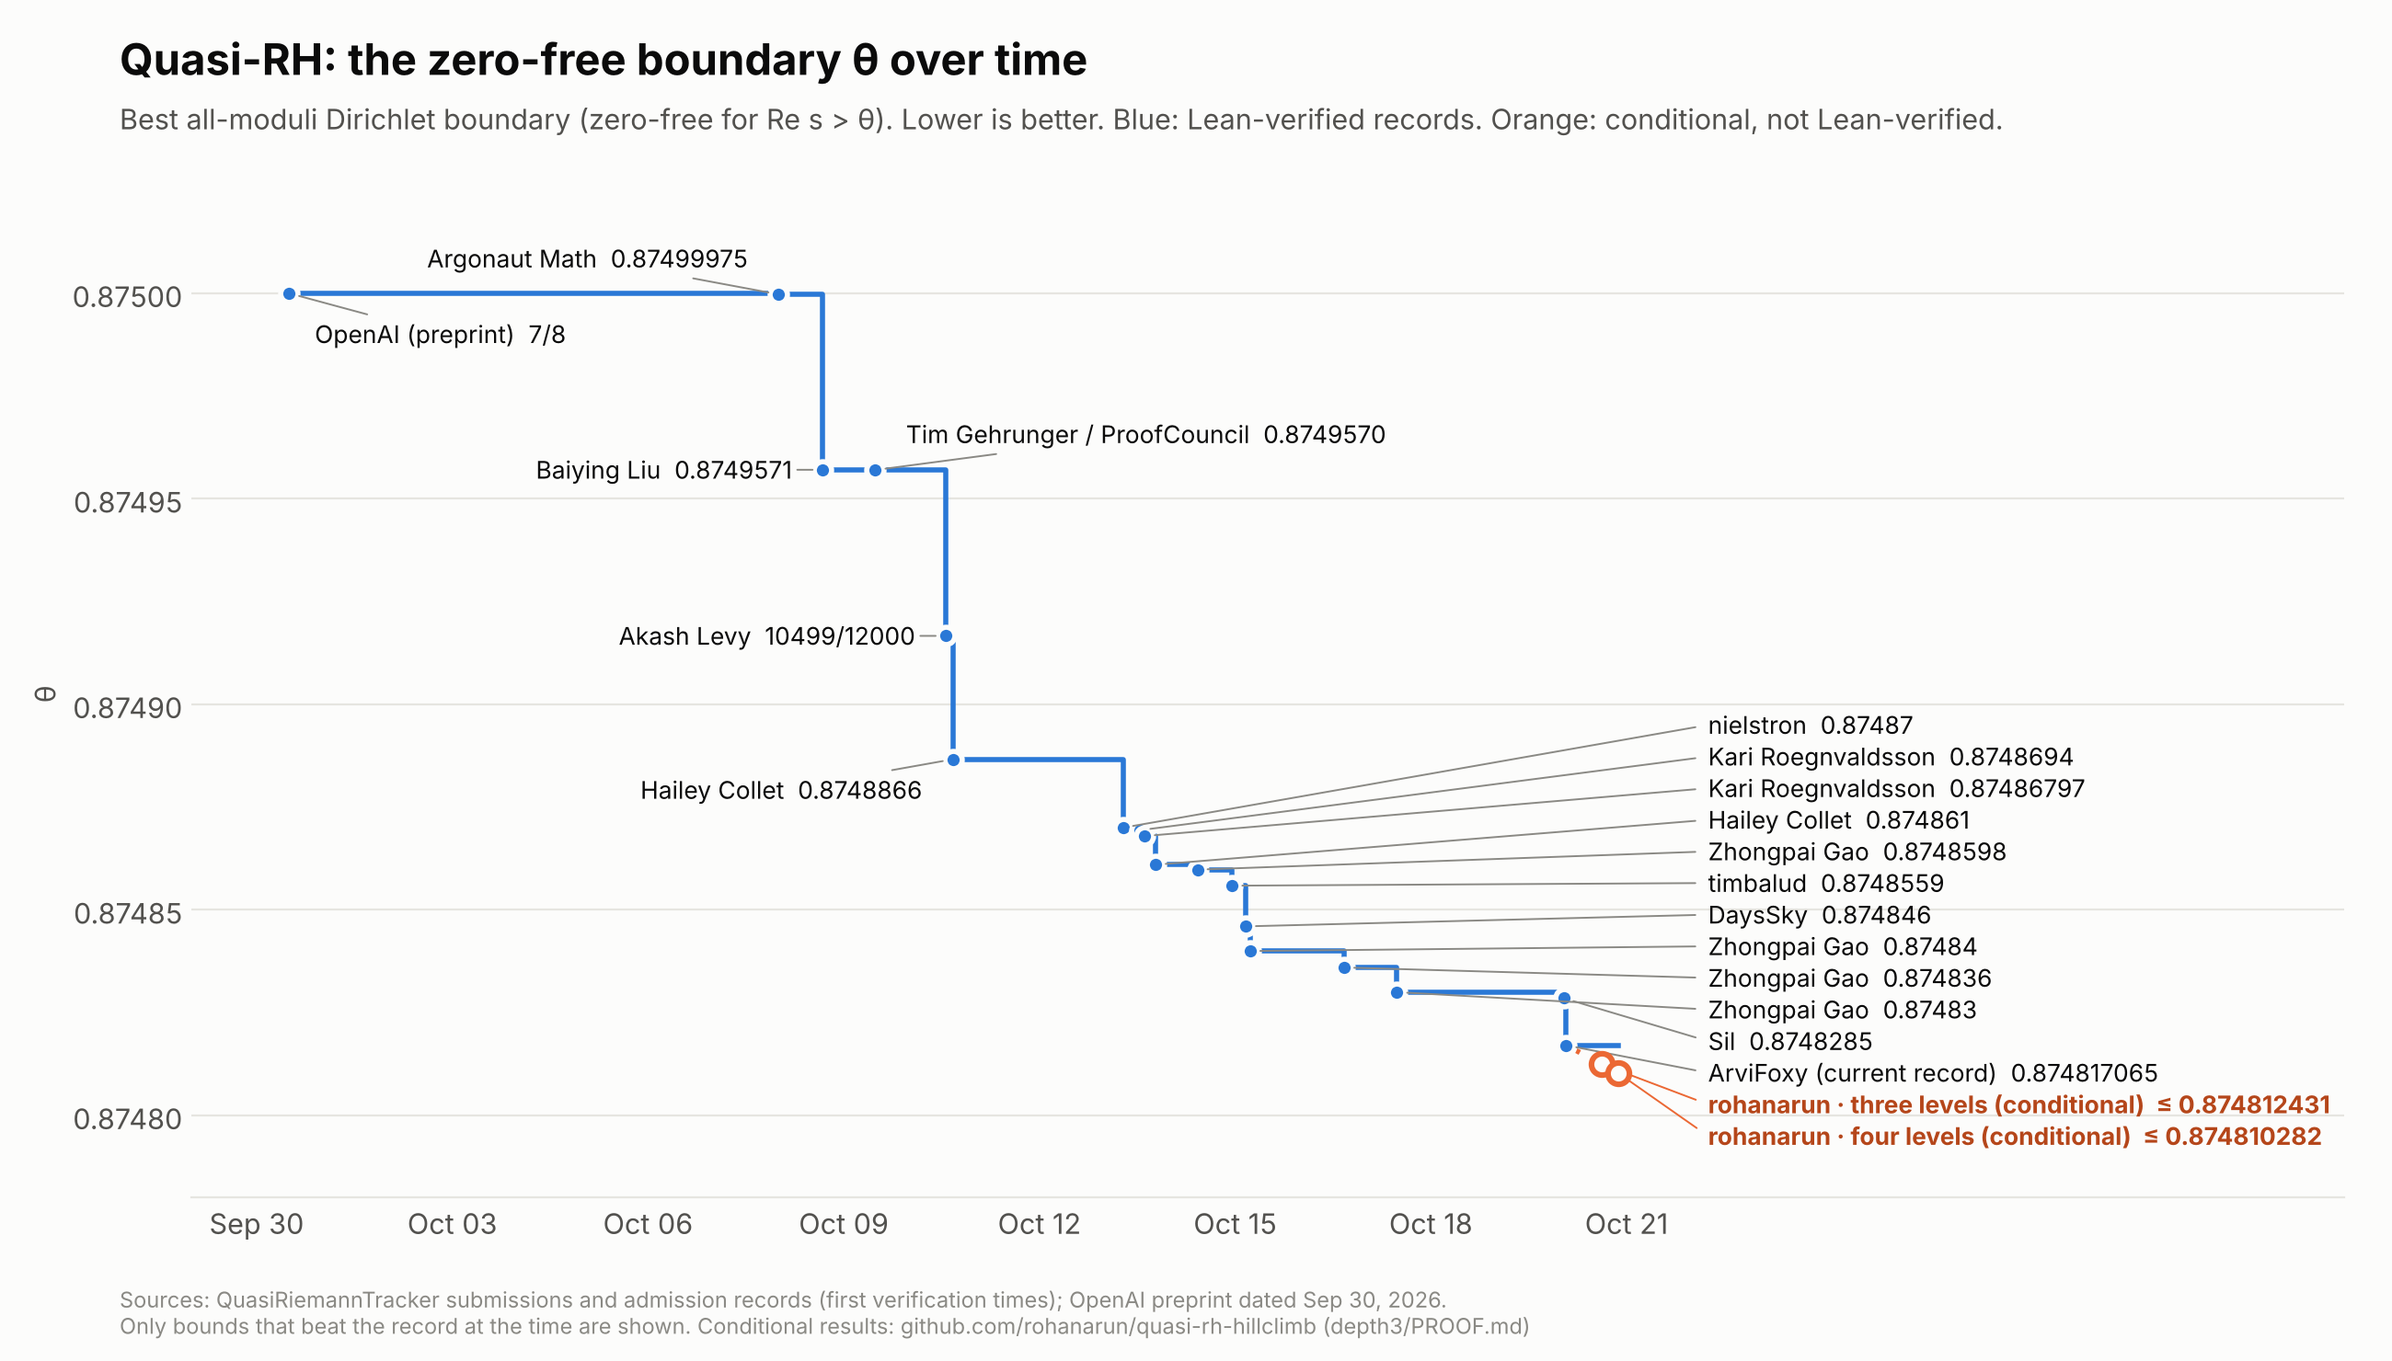
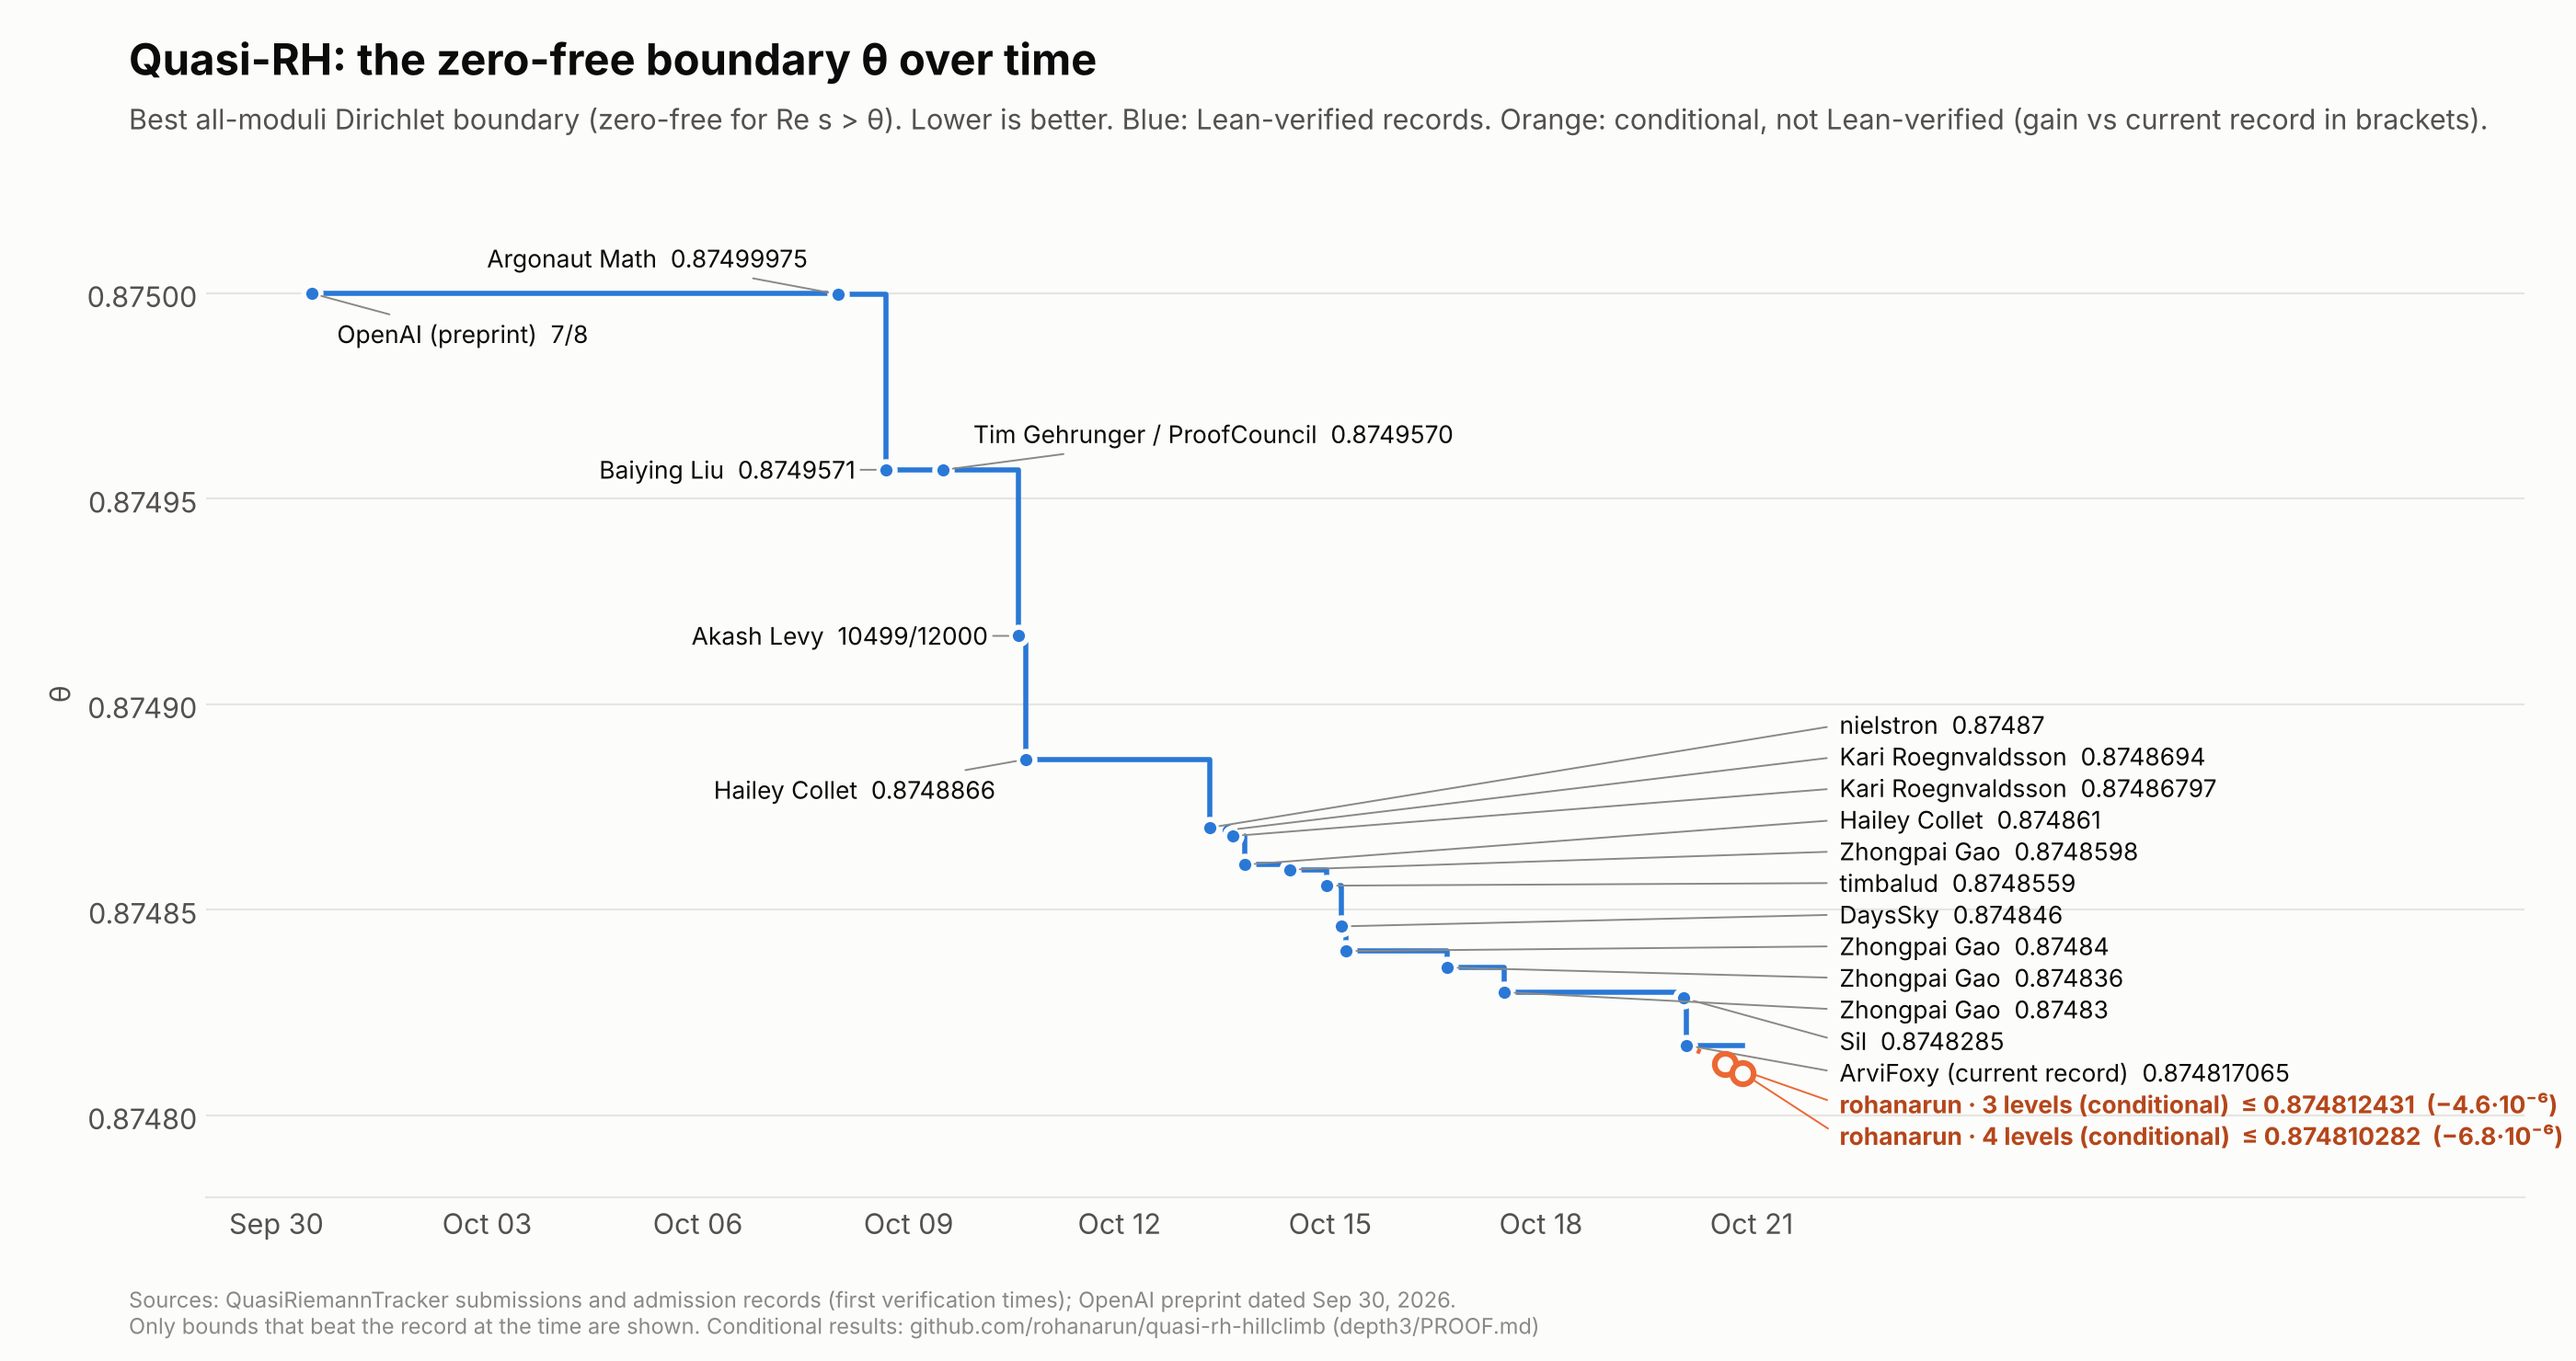
Timeline chart: show each conditional point's gain over the current record
Claude-Session: https://claude.ai/code/session_01R6CuvXCfnp4FAwrCH9w6Bh

diff --git a/auto-research/plot_timeline.py b/auto-research/plot_timeline.py
@@ -45,8 +45,8 @@ RECORDS = [
     ("2026-10-20 01:49", "ArviFoxy (current record)", Fr(174963413, 200000000), "0.874817065"),
 ]
 CONDITIONAL = [
-    ("2026-10-20 15:00", "rohanarun · three levels (conditional)", Fr(874812431, 10**9), "≤ 0.874812431"),
-    ("2026-10-20 21:00", "rohanarun · four levels (conditional)", Fr(437405141, 500000000), "≤ 0.874810282"),
+    ("2026-10-20 15:00", "rohanarun · 3 levels (conditional)", Fr(874812431, 10**9), "≤ 0.874812431  (−4.6·10⁻⁶)"),
+    ("2026-10-20 21:00", "rohanarun · 4 levels (conditional)", Fr(437405141, 500000000), "≤ 0.874810282  (−6.8·10⁻⁶)"),
 ]
 
 
@@ -59,10 +59,10 @@ y = [float(r[2]) for r in RECORDS]
 tc = [ts(r[0]) for r in CONDITIONAL]
 yc = [float(r[2]) for r in CONDITIONAL]
 
-fig = plt.figure(figsize=(13, 7.4), facecolor=SURF)
+fig = plt.figure(figsize=(14, 7.4), facecolor=SURF)
 fig.text(0.05, 0.945, "Quasi-RH: the zero-free boundary θ over time", fontsize=17, weight="bold")
 fig.text(0.05, 0.905, "Best all-moduli Dirichlet boundary (zero-free for Re s > θ). Lower is better. "
-         "Blue: Lean-verified records. Orange: conditional, not Lean-verified.", fontsize=11, color=INK2)
+         "Blue: Lean-verified records. Orange: conditional, not Lean-verified (gain vs current record in brackets).", fontsize=11, color=INK2)
 ax = fig.add_axes([0.08, 0.12, 0.90, 0.74], facecolor=SURF)
 
 ax.step(t + [tc[-1]], y + [y[-1]], where="post", color=BLUE, lw=2, zorder=2)
